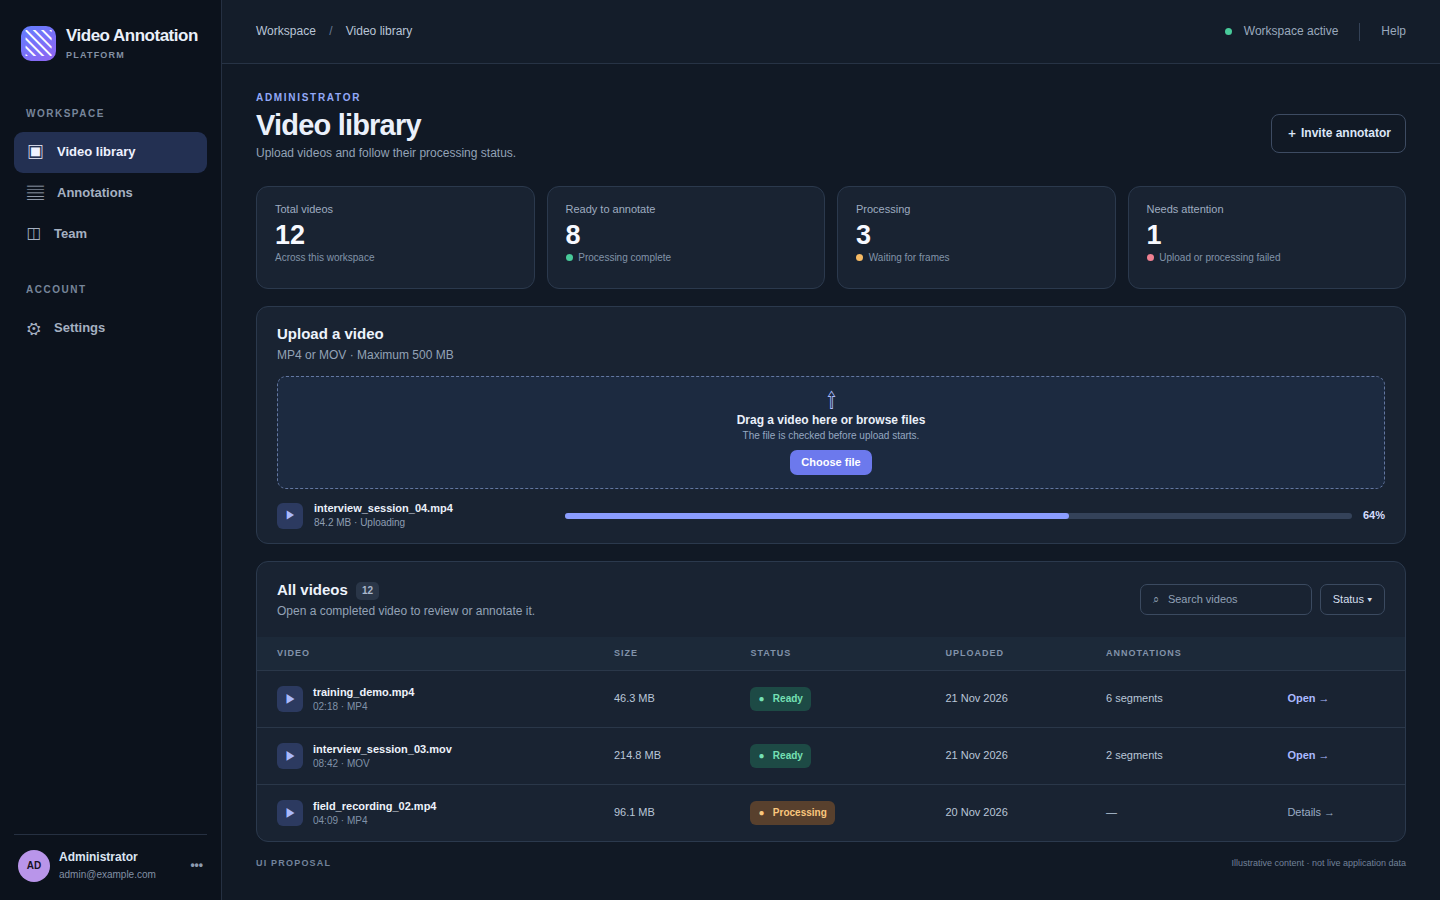
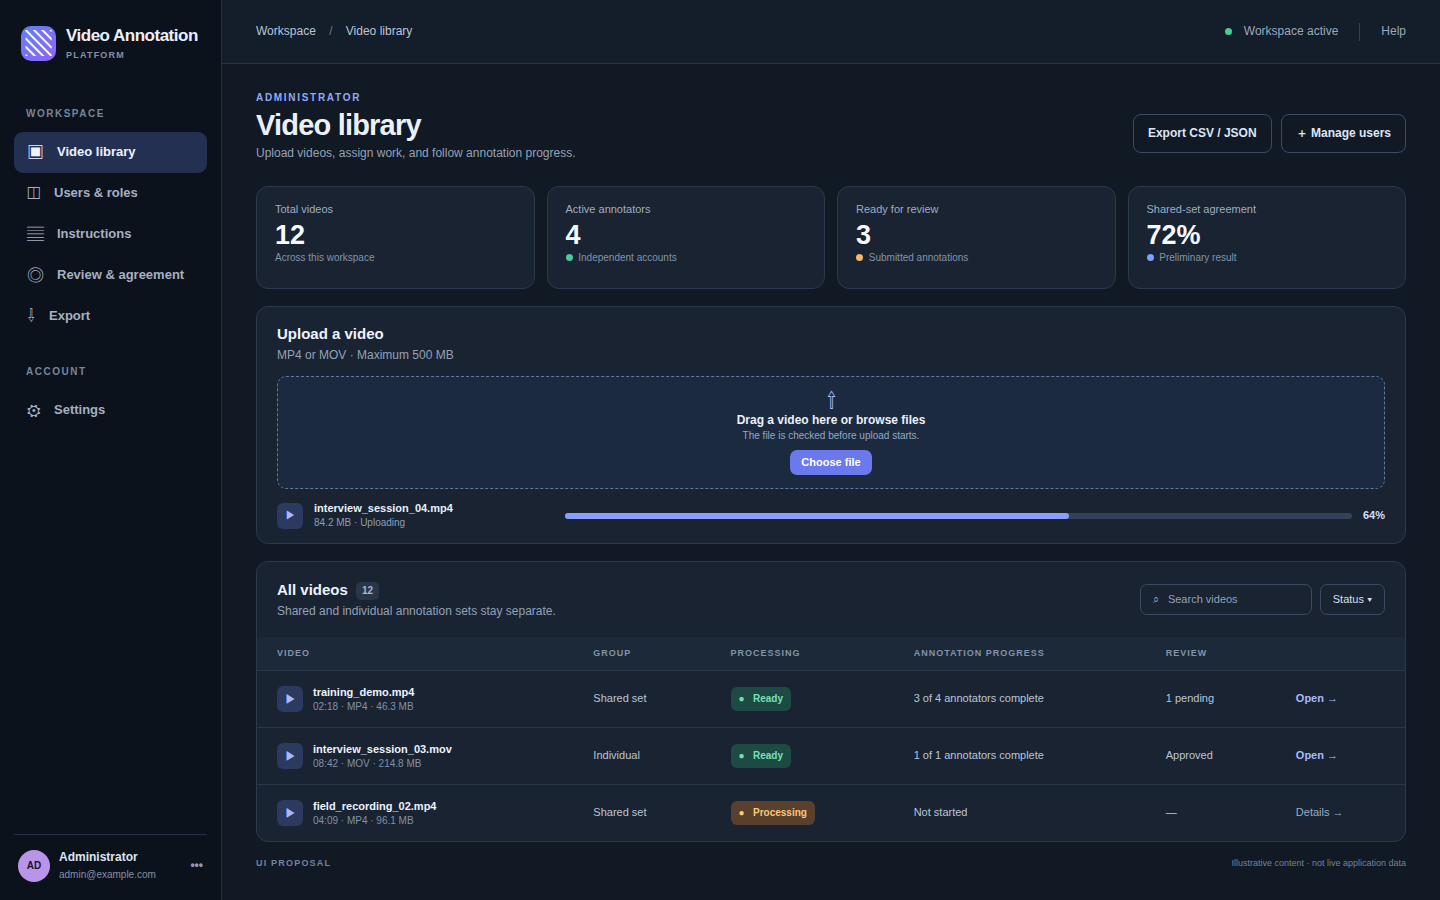
Align UI proposals with project specification

diff --git a/docs/ui-plan/annotator.html b/docs/ui-plan/annotator.html
@@ -5,6 +5,7 @@
   <meta name="viewport" content="width=device-width, initial-scale=1">
   <title>Annotator view — UI proposal</title>
   <link rel="stylesheet" href="mockups.css">
+  <link rel="stylesheet" href="spec-adjustments.css">
 </head>
 <body>
   <div class="shell annotator-shell">
@@ -18,33 +19,36 @@
       <div class="sidebar-bottom"><span class="avatar annotator-avatar">AN</span><span>Annotator<small>annotator@example.com</small></span><span class="dots">•••</span></div>
     </aside>
     <main class="main">
-      <header class="topbar"><span>My annotations <span class="crumb">/</span> training_demo.mp4</span><span class="topbar-right"><span class="live-dot"></span> All changes saved <span class="divider"></span> Help</span></header>
+      <header class="topbar"><span>My annotations <span class="crumb">/</span> training_demo.mp4</span><span class="topbar-right"><span class="live-dot"></span> Draft saved <span class="divider"></span> Instructions <span class="divider"></span> Help</span></header>
       <div class="content annotator-content">
-        <div class="annotator-title"><div><div class="eyebrow">ANNOTATION WORKSPACE</div><h1>training_demo.mp4</h1><p>02:18 duration · 25 fps · Uploaded 21 Nov 2026</p></div><div class="outline-button">← Back to videos</div></div>
+        <div class="annotator-title"><div><div class="eyebrow">SHARED ANNOTATION SET · IN PROGRESS</div><h1>training_demo.mp4</h1><p>02:18 duration · Variable frame rate · Your work is private until review</p></div><div class="outline-button">← Back to videos</div></div>
         <div class="workspace-grid">
           <section class="card video-card">
             <div class="video-preview"><div class="preview-light"></div><div class="preview-shape shape-one"></div><div class="preview-shape shape-two"></div><div class="preview-caption">VIDEO PREVIEW</div><div class="play-circle">▶</div><div class="preview-time">00:42 / 02:18</div></div>
-            <div class="player-controls"><span class="play-control">▶</span><span class="control-time">00:42.18</span><span class="frame-label">Frame 1055</span><span class="control-spacer"></span><span>◖))</span><span>⛶</span></div>
+            <div class="player-controls"><span class="play-control">▶</span><span class="control-time">00:42.18</span><span class="frame-label">Frame 1046</span><span class="control-spacer"></span><span>◖))</span><span>⛶</span></div>
           </section>
           <section class="card segments-card">
-            <div class="panel-head"><div><div class="card-heading">Segments <span class="count">6</span></div><p>Choose a segment to edit its details.</p></div><span class="small-primary">＋ New</span></div>
+            <div class="panel-head"><div><div class="card-heading">Your segments <span class="count">6</span></div><p>Choose a segment to edit its details.</p></div><span class="small-primary">＋ New</span></div>
             <div class="segment-row"><span class="segment-line blue"></span><div><strong>00:00 – 00:18</strong><small>Introduction</small></div><span>›</span></div>
             <div class="segment-row active"><span class="segment-line purple"></span><div><strong>00:38 – 00:57</strong><small>Demonstration begins</small></div><span>›</span></div>
             <div class="segment-row"><span class="segment-line teal"></span><div><strong>01:05 – 01:26</strong><small>Participant response</small></div><span>›</span></div>
             <div class="segment-row"><span class="segment-line amber"></span><div><strong>01:32 – 01:48</strong><small>Closing remarks</small></div><span>›</span></div>
           </section>
           <section class="card timeline-card">
-            <div class="timeline-top"><div class="card-heading">Timeline <span class="timeline-hint">Drag the handles to set start and end</span></div><span>− &nbsp; ━━━━━●━━ &nbsp; ＋</span></div>
+            <div class="timeline-top"><div class="card-heading">Shared video &amp; audio timeline</div><span>− &nbsp; ━━━━━●━━ &nbsp; ＋</span></div>
             <div class="ruler"><span>00:00</span><span>00:30</span><span>01:00</span><span>01:30</span><span>02:00</span><span>02:18</span></div>
             <div class="thumb-strip"><div class="thumb a"></div><div class="thumb b"></div><div class="thumb c"></div><div class="thumb d"></div><div class="thumb e"></div><div class="thumb f"></div><div class="thumb g"></div><div class="thumb h"></div><div class="thumb i"></div><div class="thumb j"></div><div class="thumb k"></div><div class="thumb l"></div><div class="selection-band"><span class="handle start"></span><span class="handle end"></span></div><div class="playhead"></div></div>
-            <div class="range-values"><span><i class="blue-dot"></i> Start 00:38.00</span><span><i class="amber-dot"></i> End 00:57.00</span><span class="range-duration">Duration 19.00 s</span></div>
+            <div class="waveform-label">AUDIO WAVEFORM <span>Aligned with the video frames above</span></div>
+            <div class="waveform"><div class="waveform-wave"></div><div class="waveform-selection"></div><div class="waveform-playhead"></div></div>
+            <div class="range-values"><span><i class="blue-dot"></i> Start 00:38.00 · Frame 947</span><span><i class="amber-dot"></i> End 00:57.00 · Frame 1418</span></div>
           </section>
           <section class="card details-card">
-            <div class="panel-head"><div><div class="card-heading">Segment details</div><p>Demonstration begins</p></div><span class="saved-tag">● Saved</span></div>
-            <div class="field-label">TITLE</div><div class="field">Demonstration begins</div>
-            <div class="time-fields"><div><div class="field-label">START</div><div class="field">00:38.00</div></div><div><div class="field-label">END</div><div class="field">00:57.00</div></div></div>
-            <div class="field-label">DESCRIPTION</div><div class="field description">The instructor demonstrates the movement. The participant follows and asks a question.</div>
-            <div class="detail-actions"><span class="danger-link">Delete segment</span><span class="primary-button">Save segment</span></div>
+            <div class="panel-head"><div><div class="card-heading">Segment annotation</div><p>Demonstration begins</p></div><span class="saved-tag">● Draft saved</span></div>
+            <div class="time-fields"><div><div class="field-label">START · TIME / FRAME</div><div class="field">00:38.00 / 947</div></div><div><div class="field-label">END · TIME / FRAME</div><div class="field">00:57.00 / 1418</div></div></div>
+            <div class="field-label">VIDEO DESCRIPTION</div><div class="field description">The instructor demonstrates a movement.</div>
+            <div class="field-label">AUDIO DESCRIPTION</div><div class="field description">The instructor explains the steps aloud.</div>
+            <div class="field-label">WHOLE-VIDEO SUMMARY</div><div class="field summary">A short summary after reviewing the entire video.</div>
+            <div class="detail-actions"><span class="danger-link">Skip video</span><span class="action-group"><span class="outline-button">Save draft</span><span class="primary-button">Mark complete</span></span></div>
           </section>
         </div>
         <div class="proposal-note">UI PROPOSAL <span>Illustrative content · not live application data</span></div>

diff --git a/docs/ui-plan/admin.html b/docs/ui-plan/admin.html
@@ -5,6 +5,7 @@
   <meta name="viewport" content="width=device-width, initial-scale=1">
   <title>Administrator view — UI proposal</title>
   <link rel="stylesheet" href="mockups.css">
+  <link rel="stylesheet" href="spec-adjustments.css">
 </head>
 <body>
   <div class="shell">
@@ -12,8 +13,10 @@
       <div class="brand"><span class="brand-mark">▧</span><span>Video Annotation<small>PLATFORM</small></span></div>
       <div class="side-label">WORKSPACE</div>
       <div class="side-item selected">▣ <span>Video library</span></div>
-      <div class="side-item">▤ <span>Annotations</span></div>
-      <div class="side-item">◫ <span>Team</span></div>
+      <div class="side-item">◫ <span>Users &amp; roles</span></div>
+      <div class="side-item">▤ <span>Instructions</span></div>
+      <div class="side-item">◎ <span>Review &amp; agreement</span></div>
+      <div class="side-item">⇩ <span>Export</span></div>
       <div class="side-label lower">ACCOUNT</div>
       <div class="side-item">⚙ <span>Settings</span></div>
       <div class="sidebar-bottom"><span class="avatar">AD</span><span>Administrator<small>admin@example.com</small></span><span class="dots">•••</span></div>
@@ -22,12 +25,12 @@
       <header class="topbar"><span>Workspace <span class="crumb">/</span> Video library</span><span class="topbar-right"><span class="live-dot"></span> Workspace active <span class="divider"></span> Help</span></header>
       <div class="content">
         <div class="eyebrow">ADMINISTRATOR</div>
-        <div class="title-row"><div><h1>Video library</h1><p>Upload videos and follow their processing status.</p></div><div class="outline-button">＋ Invite annotator</div></div>
+        <div class="title-row"><div><h1>Video library</h1><p>Upload videos, assign work, and follow annotation progress.</p></div><div class="title-actions"><div class="outline-button">Export CSV / JSON</div><div class="outline-button">＋ Manage users</div></div></div>
         <div class="stats">
           <div class="stat"><span>Total videos</span><strong>12</strong><small>Across this workspace</small></div>
-          <div class="stat"><span>Ready to annotate</span><strong>8</strong><small><i class="green-dot"></i> Processing complete</small></div>
-          <div class="stat"><span>Processing</span><strong>3</strong><small><i class="amber-dot"></i> Waiting for frames</small></div>
-          <div class="stat"><span>Needs attention</span><strong>1</strong><small><i class="red-dot"></i> Upload or processing failed</small></div>
+          <div class="stat"><span>Active annotators</span><strong>4</strong><small><i class="green-dot"></i> Independent accounts</small></div>
+          <div class="stat"><span>Ready for review</span><strong>3</strong><small><i class="amber-dot"></i> Submitted annotations</small></div>
+          <div class="stat"><span>Shared-set agreement</span><strong>72%</strong><small><i class="blue-dot"></i> Preliminary result</small></div>
         </div>
         <section class="card upload-card">
           <div><div class="card-heading">Upload a video</div><p>MP4 or MOV · Maximum 500 MB</p></div>
@@ -35,11 +38,11 @@
           <div class="upload-example"><span class="file-icon">▶</span><div class="upload-name"><strong>interview_session_04.mp4</strong><small>84.2 MB · Uploading</small></div><div class="mini-progress"><div></div></div><strong class="upload-number">64%</strong></div>
         </section>
         <section class="card library-card">
-          <div class="library-head"><div><div class="card-heading">All videos <span class="count">12</span></div><p>Open a completed video to review or annotate it.</p></div><div class="toolbar"><span class="search">⌕ &nbsp; Search videos</span><span class="filter">Status ▾</span></div></div>
-          <table><thead><tr><th>VIDEO</th><th>SIZE</th><th>STATUS</th><th>UPLOADED</th><th>ANNOTATIONS</th><th></th></tr></thead><tbody>
-            <tr><td><span class="table-icon">▶</span><span class="file-cell">training_demo.mp4<small>02:18 · MP4</small></span></td><td>46.3 MB</td><td><span class="badge ready">● &nbsp; Ready</span></td><td>21 Nov 2026</td><td>6 segments</td><td><span class="row-action">Open →</span></td></tr>
-            <tr><td><span class="table-icon">▶</span><span class="file-cell">interview_session_03.mov<small>08:42 · MOV</small></span></td><td>214.8 MB</td><td><span class="badge ready">● &nbsp; Ready</span></td><td>21 Nov 2026</td><td>2 segments</td><td><span class="row-action">Open →</span></td></tr>
-            <tr><td><span class="table-icon">▶</span><span class="file-cell">field_recording_02.mp4<small>04:09 · MP4</small></span></td><td>96.1 MB</td><td><span class="badge processing">● &nbsp; Processing</span></td><td>20 Nov 2026</td><td>—</td><td><span class="muted-action">Details →</span></td></tr>
+          <div class="library-head"><div><div class="card-heading">All videos <span class="count">12</span></div><p>Shared and individual annotation sets stay separate.</p></div><div class="toolbar"><span class="search">⌕ &nbsp; Search videos</span><span class="filter">Status ▾</span></div></div>
+          <table><thead><tr><th>VIDEO</th><th>GROUP</th><th>PROCESSING</th><th>ANNOTATION PROGRESS</th><th>REVIEW</th><th></th></tr></thead><tbody>
+            <tr><td><span class="table-icon">▶</span><span class="file-cell">training_demo.mp4<small>02:18 · MP4 · 46.3 MB</small></span></td><td>Shared set</td><td><span class="badge ready">● &nbsp; Ready</span></td><td>3 of 4 annotators complete</td><td>1 pending</td><td><span class="row-action">Open →</span></td></tr>
+            <tr><td><span class="table-icon">▶</span><span class="file-cell">interview_session_03.mov<small>08:42 · MOV · 214.8 MB</small></span></td><td>Individual</td><td><span class="badge ready">● &nbsp; Ready</span></td><td>1 of 1 annotators complete</td><td>Approved</td><td><span class="row-action">Open →</span></td></tr>
+            <tr><td><span class="table-icon">▶</span><span class="file-cell">field_recording_02.mp4<small>04:09 · MP4 · 96.1 MB</small></span></td><td>Shared set</td><td><span class="badge processing">● &nbsp; Processing</span></td><td>Not started</td><td>—</td><td><span class="muted-action">Details →</span></td></tr>
           </tbody></table>
         </section>
         <div class="proposal-note">UI PROPOSAL <span>Illustrative content · not live application data</span></div>

diff --git a/docs/ui-plan/spec-adjustments.css b/docs/ui-plan/spec-adjustments.css
@@ -1,0 +1,15 @@
+.title-actions, .action-group { display: flex; align-items: center; gap: 9px; }
+.waveform-label { display: flex; justify-content: space-between; margin-top: 9px; color: #9fb2c9; font-size: 9px; font-weight: 800; letter-spacing: .8px; }
+.waveform-label span { color: #8499b1; font-weight: 400; letter-spacing: 0; }
+.waveform { position: relative; height: 40px; margin-top: 4px; overflow: hidden; border: 1px solid #3e5269; border-radius: 6px; background: #101d2b; }
+.waveform-wave { position: absolute; inset: 3px 0; background: repeating-linear-gradient(90deg, #67c5cf 0 2px, transparent 2px 5px); clip-path: polygon(0 40%, 5% 20%, 10% 42%, 15% 5%, 20% 35%, 25% 15%, 30% 40%, 35% 12%, 40% 30%, 45% 4%, 50% 36%, 55% 21%, 60% 42%, 65% 8%, 70% 30%, 75% 20%, 80% 47%, 85% 10%, 90% 30%, 95% 18%, 100% 40%, 100% 60%, 95% 82%, 90% 70%, 85% 90%, 80% 53%, 75% 80%, 70% 70%, 65% 92%, 60% 58%, 55% 79%, 50% 64%, 45% 96%, 40% 70%, 35% 88%, 30% 60%, 25% 85%, 20% 65%, 15% 95%, 10% 58%, 5% 80%, 0 60%); }
+.waveform-selection { position: absolute; left: 27.5%; width: 14%; top: 0; bottom: 0; border-left: 2px solid #76a8ff; border-right: 2px solid #ffba72; background: #778cff38; }
+.waveform-playhead { position: absolute; left: 31%; top: 0; bottom: 0; width: 2px; background: #f4f7fc; }
+.timeline-card .range-values { margin-top: 9px; }
+.details-card .panel-head { margin-bottom: 7px; }
+.details-card .field-label { margin: 6px 0 4px; }
+.details-card .field { min-height: 27px; padding: 5px 9px; }
+.details-card .description { height: 39px; }
+.details-card .summary { height: 33px; }
+.details-card .detail-actions { margin-top: 8px; }
+.details-card .outline-button, .details-card .primary-button { padding: 6px 9px; font-size: 10px; }

diff --git a/docs/ui-plan/README.md b/docs/ui-plan/README.md
@@ -1,34 +1,49 @@
 # Administrator and annotator UI proposal
 
-These are single-frame desktop mockups for customer feedback. The example
-videos, counts, names, and status values are illustrative. The HTML files are
-static previews, not application screens.
+These are single-frame desktop mockups for customer feedback, revised against
+the *Multimodal Video Annotation Platform - Project Description and
+Specification* (sections 3, 6-8, and 11-13). The example videos, counts,
+names, and status values are illustrative. The HTML files are static previews,
+not application screens.
 
 ## Administrator view
 
 ![Administrator video library proposal](admin.png)
 
 The proposed library keeps upload, transfer progress, processing status, and
-the video list on one screen. Transfer progress and background processing are
-shown separately so that 100% uploaded does not imply the video is ready.
+annotation progress on one screen. Navigation exposes user and role management,
+instructions, review and agreement reporting, and CSV/JSON export. Transfer
+progress and background processing are shown separately so that 100% uploaded
+does not imply the video is ready.
 
 ## Annotator view
 
 ![Annotator workspace proposal](annotator.png)
 
-The proposed workspace places video playback next to the segment list. The
-timeline and draggable start/end handles sit directly below the player, with
-the selected segment's fields alongside them.
+The proposed workspace places video playback next to the annotator's own
+segment list. Video frames and audio waveform share one timeline and selection.
+Start and end values are shown as both timestamps and frame numbers. The
+selected segment has separate Video Description and Audio Description fields;
+the whole-video Video Summary has its own field. Instructions, draft saving,
+skipping, and marking a video complete are visible in the same workspace.
 
 ## Questions for customer feedback
 
-1. Is the administrator's upload and video list layout clear enough for daily use?
-2. Should annotators see only assigned videos, or the full library?
-3. Are video, segment list, timeline, and details in the right places for annotation work?
-4. Which segment fields are required beyond title, time range, and description?
-5. Should administrators and annotators have different controls on the video page?
+1. Is the administrator's upload and progress overview clear enough for daily use?
+2. Should users and roles, instructions, review, and export remain in separate sections?
+3. Are video, waveform, segment list, and the three annotation fields in the right places?
+4. Is it clear that the selected segment uses one shared time/frame interval for both descriptions?
+5. Is the distinction between saving a draft and marking a video complete clear?
 
-Search, filters, team invitations, assignment navigation, and saved-state
+Search, filters, user management, instructions, review, agreement, export,
+waveform, video/audio description fields, whole-video summary, and saved-state
 indicators in these pictures are proposals. They are not claims that those
-features are implemented. Open `admin.html` or `annotator.html` locally to
-inspect the static layout at full size.
+features are implemented. The specification also calls for a reviewer
+dashboard; issue #14 asks for administrator and annotator pictures only.
+Open `admin.html` or `annotator.html` locally to inspect the static layout at
+full size.
+
+The current prototype does not yet show an audio waveform or separate video
+and audio description fields, and it does not collect the whole-video summary.
+Those are core requirements in the specification, so they need dedicated
+implementation work after the layout is agreed.
